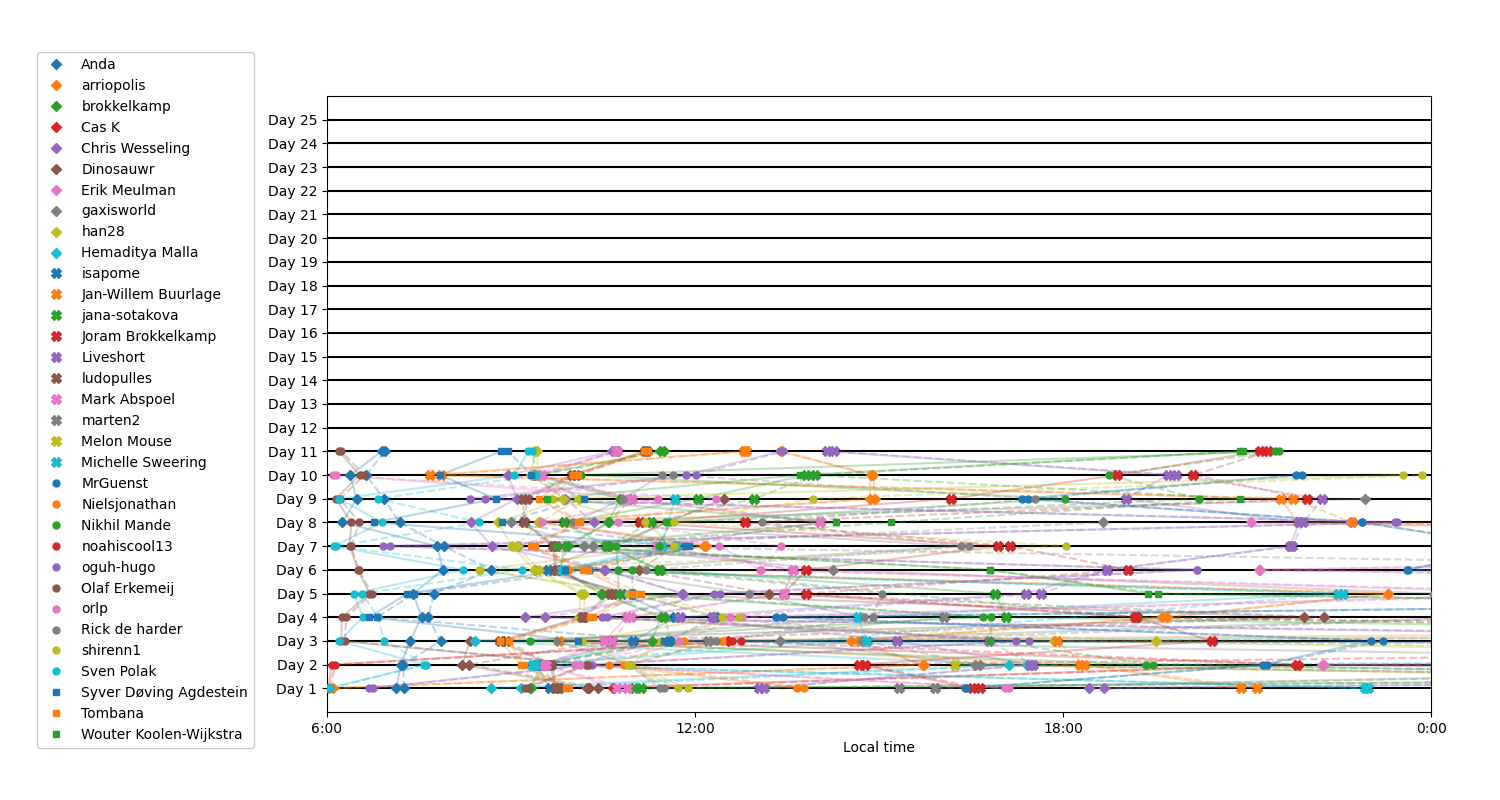
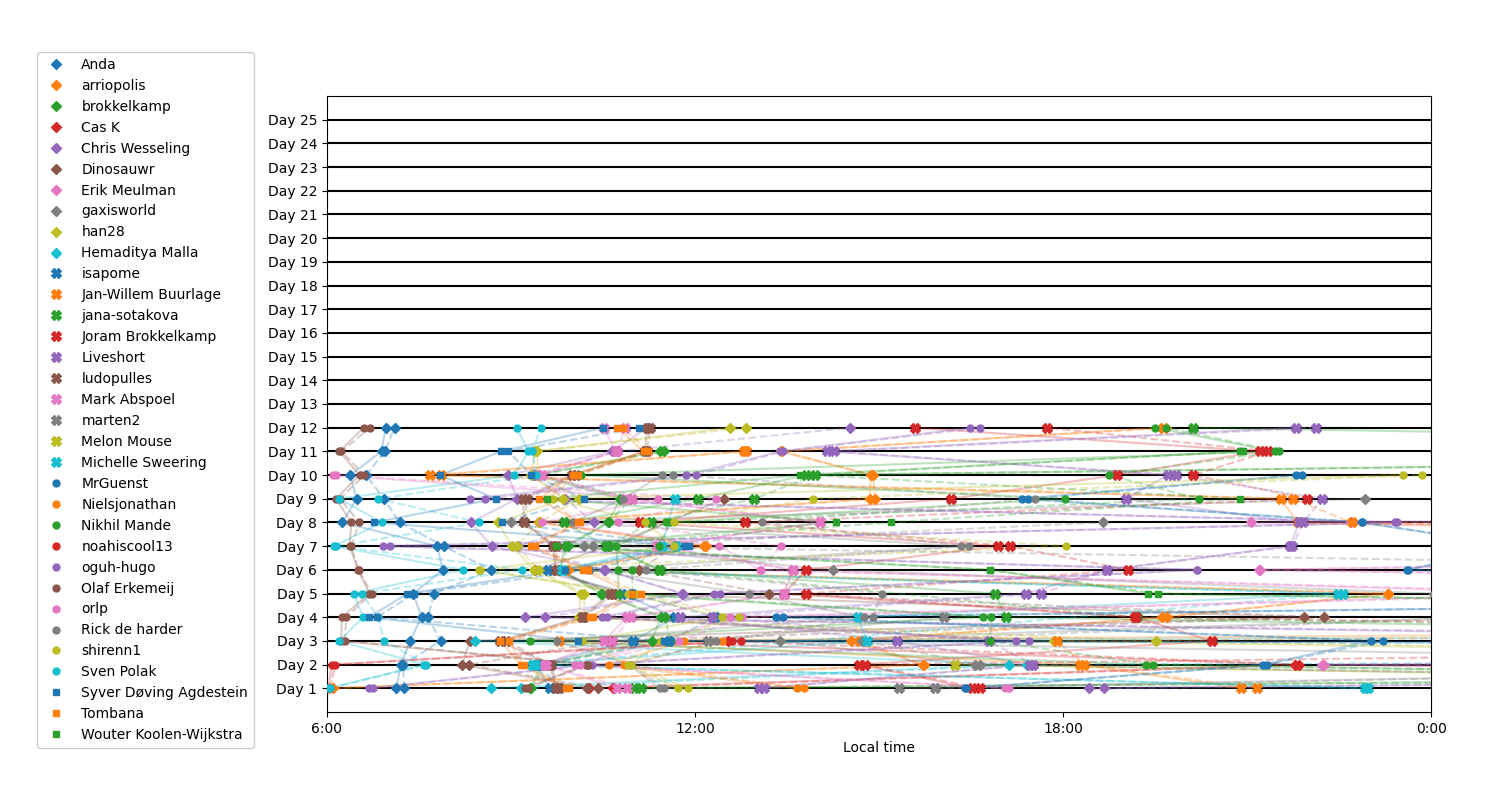
Added solutions to day 12.

Changed region(s): [[0.3373, 0.5312, 0.8893, 0.5938], [0.2147, 0.5312, 0.276, 0.5625], [0.92, 0.5625, 0.9507, 0.5938]]

diff --git a/Day12/part2-dp.py b/Day12/part2-dp.py
@@ -1,0 +1,41 @@
+import sys
+
+graph = {}
+for line in sys.stdin:
+    s,t = line.strip().split('-')
+    if s not in graph: graph[s] = set()
+    graph[s].add(t)
+    if t not in graph: graph[t] = set()
+    graph[t].add(s)
+
+new_graph = {}
+for s in graph:
+    if s != s.lower(): continue
+    new_graph[s] = {}
+    for t in graph[s]:
+        if t == t.lower():
+            if t not in new_graph[s]: new_graph[s][t] = 0
+            new_graph[s][t] += 1
+        else:
+            for u in graph[t]:
+                if u not in new_graph[s]: new_graph[s][u] = 0
+                new_graph[s][u] += 1
+
+dp = {(tuple(),None,'start') : 1}
+q = [(tuple(),None,'start')]
+tot = 0
+while q:
+    visited, dbl, s = q.pop(0)
+    for t,n in new_graph[s].items():
+        if t == 'end':
+            tot += dp[(visited,dbl,s)] * n
+            continue
+        if t == 'start': continue
+        if t in visited and dbl is not None: continue
+        new_dbl = t if t in visited else dbl
+        new_visited = tuple(sorted(visited + (t,))) if t not in visited else visited
+        if (new_visited,new_dbl,t) not in dp:
+            dp[(new_visited,new_dbl,t)] = 0
+            q.append((new_visited,new_dbl,t))
+        dp[(new_visited,new_dbl,t)] += dp[(visited,dbl,s)] * n
+print(tot)

diff --git a/Day12/part2-dp-oneline-formatted.py b/Day12/part2-dp-oneline-formatted.py
@@ -1,0 +1,29 @@
+print(next(r[0]
+    for g in [{}]
+    for _ in [[(
+        g.update({s : set([t])}) if s not in g else g[s].add(t),
+        g.update({t : set([s])}) if t not in g else g[t].add(s)
+    ) for l in open('input.txt') for s,t in [l.strip().split('-')]]]
+    for h in [{s : {} for s in g if s == s.lower()}]
+    for _ in [[
+        (
+            h[s].update({t:1 if t not in h[s] else h[s][t]+1})
+            if t == t.lower() else
+            [h[s].update({u:1 if u not in h[s] else h[s][u]+1}) for u in g[t]]
+        ) for s in g if s == s.lower() for t in g[s]
+    ]]
+    for d in [{(tuple(),None,'start') : 1}]
+    for q in [[(tuple(),None,'start')]]
+    for r in [[0]]
+    for _ in [[
+        r.append(r.pop() + d[(v,m,s)]*n)
+        if t == 'end' else
+        (d.update({(w,l,t) : d[(v,m,s)]*n}), q.append((w,l,t)))
+        if (w,l,t) not in d else
+        d.update({(w,l,t) : d[(w,l,t)] + d[(v,m,s)]*n})
+        for _ in range(2**len(h) * len(h)**2) if q
+        for v,m,s in [q.pop(0)] for t,n in h[s].items()
+        if t != 'start' if (t not in v or m is None)
+        for w in [tuple(sorted(v + (t,)))] for l in [t if t in v else m]
+    ]]
+))

diff --git a/Day12/part1-dp.py b/Day12/part1-dp.py
@@ -1,0 +1,39 @@
+import sys
+
+graph = {}
+for line in sys.stdin:
+    s,t = line.strip().split('-')
+    if s not in graph: graph[s] = set()
+    graph[s].add(t)
+    if t not in graph: graph[t] = set()
+    graph[t].add(s)
+
+new_graph = {}
+for s in graph:
+    if s != s.lower(): continue
+    new_graph[s] = {}
+    for t in graph[s]:
+        if t == t.lower():
+            if t not in new_graph[s]: new_graph[s][t] = 0
+            new_graph[s][t] += 1
+        else:
+            for u in graph[t]:
+                if u not in new_graph[s]: new_graph[s][u] = 0
+                new_graph[s][u] += 1
+
+dp = {(tuple(['start']),'start') : 1}
+q = [(tuple(['start']),'start')]
+tot = 0
+while q:
+    visited, s = q.pop(0)
+    for t,n in new_graph[s].items():
+        if t in visited: continue
+        if t == 'end':
+            tot += dp[(visited,s)] * n
+            continue
+        new_visited = tuple(sorted(visited + (t,)))
+        if (new_visited,t) not in dp:
+            dp[(new_visited,t)] = 0
+            q.append((new_visited,t))
+        dp[(new_visited,t)] += dp[(visited,s)] * n
+print(tot)

diff --git a/Day12/part1-dp-formatted.py b/Day12/part1-dp-formatted.py
@@ -1,0 +1,28 @@
+print(next(r[0]
+    for g in [{}]
+    for _ in [[(
+        g.update({s : set([t])}) if s not in g else g[s].add(t),
+        g.update({t : set([s])}) if t not in g else g[t].add(s)
+    ) for l in open('input.txt') for s,t in [l.strip().split('-')]]]
+    for h in [{s : {} for s in g if s == s.lower()}]
+    for _ in [[
+        (
+            h[s].update({t:1 if t not in h[s] else h[s][t]+1})
+            if t == t.lower() else
+            [h[s].update({u:1 if u not in h[s] else h[s][u]+1}) for u in g[t]]
+        ) for s in g if s == s.lower() for t in g[s]
+    ]]
+    for d in [{(tuple(),'start') : 1}]
+    for q in [[(tuple(),'start')]]
+    for r in [[0]]
+    for _ in [[
+        r.append(r.pop() + d[(v,s)]*n)
+        if t == 'end' else
+        (d.update({(w,t) : d[(v,s)]*n}), q.append((w,t)))
+        if (w,t) not in d else
+        d.update({(w,t) : d[(w,t)] + d[(v,s)]*n})
+        for _ in range(2**len(h) * len(h)) if q
+        for v,s in [q.pop(0)] for t,n in h[s].items()
+        if t != 'start' if t not in v for w in [tuple(sorted(v + (t,)))]
+    ]]
+))

diff --git a/Day12/part2-dp-oneline.py b/Day12/part2-dp-oneline.py
@@ -1,0 +1,1 @@
+print(next(r[0] for g in [{}] for _ in [[(g.update({s : set([t])}) if s not in g else g[s].add(t), g.update({t : set([s])}) if t not in g else g[t].add(s)) for l in open('input.txt') for s,t in [l.strip().split('-')]]] for h in [{s : {} for s in g if s == s.lower()}] for _ in [[(h[s].update({t:1 if t not in h[s] else h[s][t]+1}) if t == t.lower() else [h[s].update({u:1 if u not in h[s] else h[s][u]+1}) for u in g[t]]) for s in g if s == s.lower() for t in g[s]]] for d in [{(tuple(),None,'start') : 1}] for q in [[(tuple(),None,'start')]] for r in [[0]] for _ in [[r.append(r.pop() + d[(v,m,s)]*n) if t == 'end' else (d.update({(w,l,t) : d[(v,m,s)]*n}), q.append((w,l,t))) if (w,l,t) not in d else d.update({(w,l,t) : d[(w,l,t)] + d[(v,m,s)]*n}) for _ in range(2**len(h) * len(h)**2) if q for v,m,s in [q.pop(0)] for t,n in h[s].items() if t != 'start' if (t not in v or m is None) for w in [tuple(sorted(v + (t,)))] for l in [t if t in v else m]]]))

diff --git a/Day12/part1-dp-oneline.py b/Day12/part1-dp-oneline.py
@@ -1,0 +1,1 @@
+print(next(r[0] for g in [{}] for _ in [[(g.update({s : set([t])}) if s not in g else g[s].add(t), g.update({t : set([s])}) if t not in g else g[t].add(s)) for l in open('input.txt') for s,t in [l.strip().split('-')]]] for h in [{s : {} for s in g if s == s.lower()}] for _ in [[(h[s].update({t:1 if t not in h[s] else h[s][t]+1}) if t == t.lower() else [h[s].update({u:1 if u not in h[s] else h[s][u]+1}) for u in g[t]]) for s in g if s == s.lower() for t in g[s]]] for d in [{(tuple(),'start') : 1}] for q in [[(tuple(),'start')]] for r in [[0]] for _ in [[r.append(r.pop() + d[(v,s)]*n) if t == 'end' else (d.update({(w,t) : d[(v,s)]*n}), q.append((w,t))) if (w,t) not in d else d.update({(w,t) : d[(w,t)] + d[(v,s)]*n}) for _ in range(2**len(h) * len(h)) if q for v,s in [q.pop(0)] for t,n in h[s].items() if t != 'start' if t not in v for w in [tuple(sorted(v + (t,)))]]]))

diff --git a/Day12/part2.py b/Day12/part2.py
@@ -1,0 +1,25 @@
+import sys
+
+graph = {}
+for line in sys.stdin:
+    s,t = line.strip().split('-')
+    if s not in graph: graph[s] = set()
+    graph[s].add(t)
+    if t not in graph: graph[t] = set()
+    graph[t].add(s)
+
+def DFS(visited, s):
+    if s == 'end': return 1
+    res = 0
+    for t in graph[s]:
+        new_visited = visited.copy()
+        if t == t.lower():
+            if t not in new_visited: new_visited[t] = 0
+            new_visited[t] += 1
+            if new_visited['start'] == 2: continue
+            l = sorted(list(new_visited.values()), reverse = True)
+            if len(l) >= 2 and (l[0] > 2 or l[1] >= 2): continue
+        res += DFS(new_visited, t)
+    return res
+
+print(DFS({'start' : 1}, 'start'))

diff --git a/Day12/part1-oneline.py b/Day12/part1-oneline.py
@@ -1,0 +1,14 @@
+print(next(r[0]
+    for g in [{}]
+    for _ in [[(
+        g.update({s : set([t])}) if s not in g else g[s].add(t),
+        g.update({t : set([s])}) if t not in g else g[t].add(s)
+    ) for l in open('input.txt') for s,t in [l.strip().split('-')]]]
+    for r in [[0]]
+    for q in [[(set(['start']),'start')]]
+    for _ in [[
+        r.append(r.pop()+1) if t == 'end' else q.append((v.union([t]) if t == t.lower() else v, t))
+        for _ in range(next(a[0] for a in [[1]] for _ in [[a.append(a.pop()*i) for i in range(1,len(g)+1)]]))
+        if q for v,s in [q.pop(0)] for t in g[s] if t not in v
+    ]]
+))

diff --git a/Day12/part1.py b/Day12/part1.py
@@ -1,0 +1,20 @@
+import sys
+
+graph = {}
+for line in sys.stdin:
+    s,t = line.strip().split('-')
+    if s not in graph: graph[s] = set()
+    graph[s].add(t)
+    if t not in graph: graph[t] = set()
+    graph[t].add(s)
+
+def DFS(visited, s):
+    if s == 'end': return 1
+    res = 0
+    for t in graph[s]:
+        if t in visited: continue
+        new_visited = visited.union(set([t])) if t == t.lower() else visited
+        res += DFS(new_visited, t)
+    return res
+
+print(DFS(set(['start']), 'start'))
